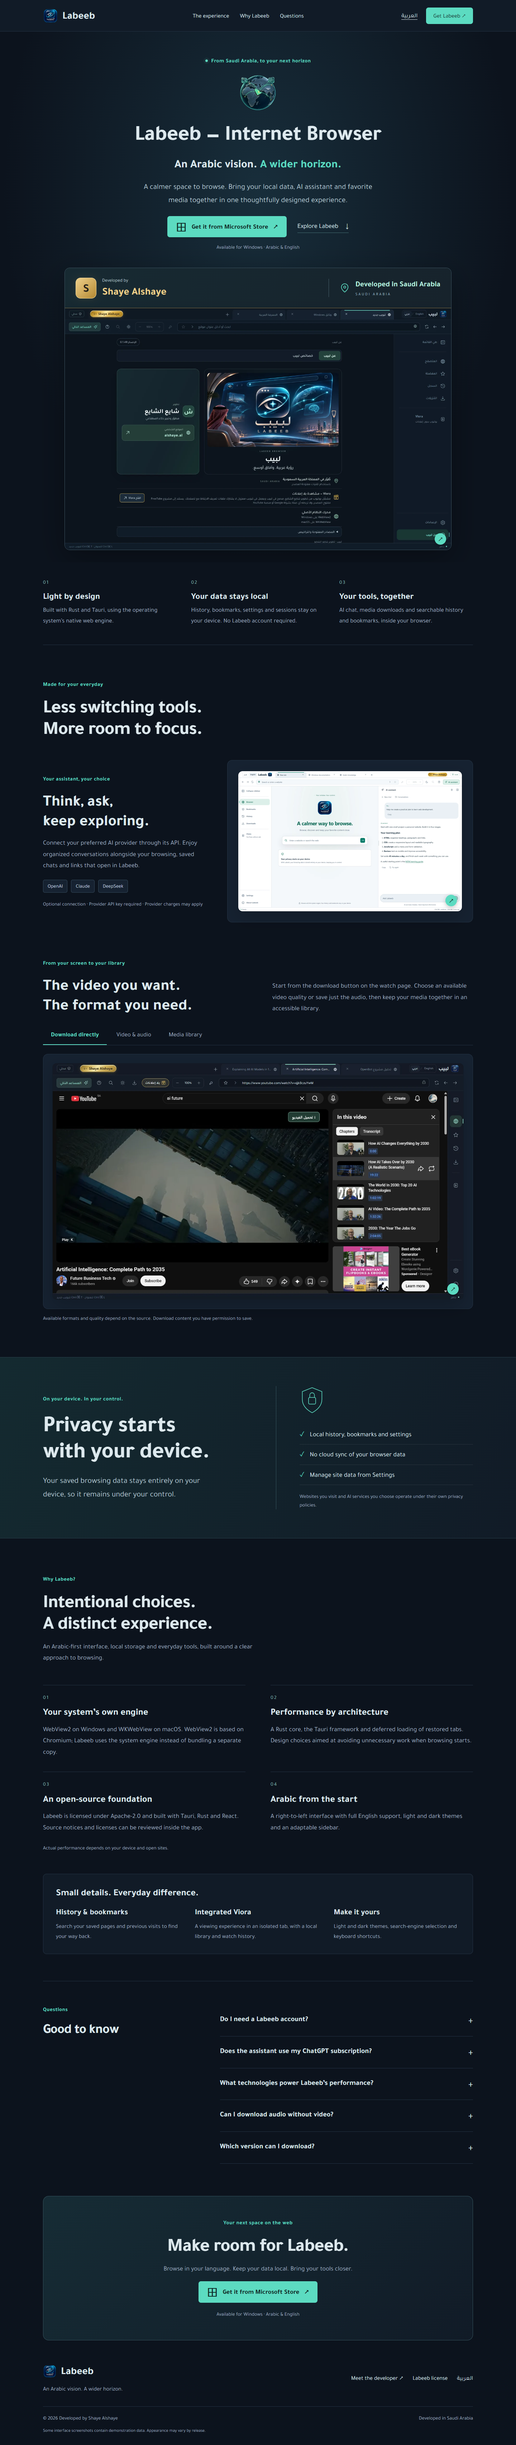
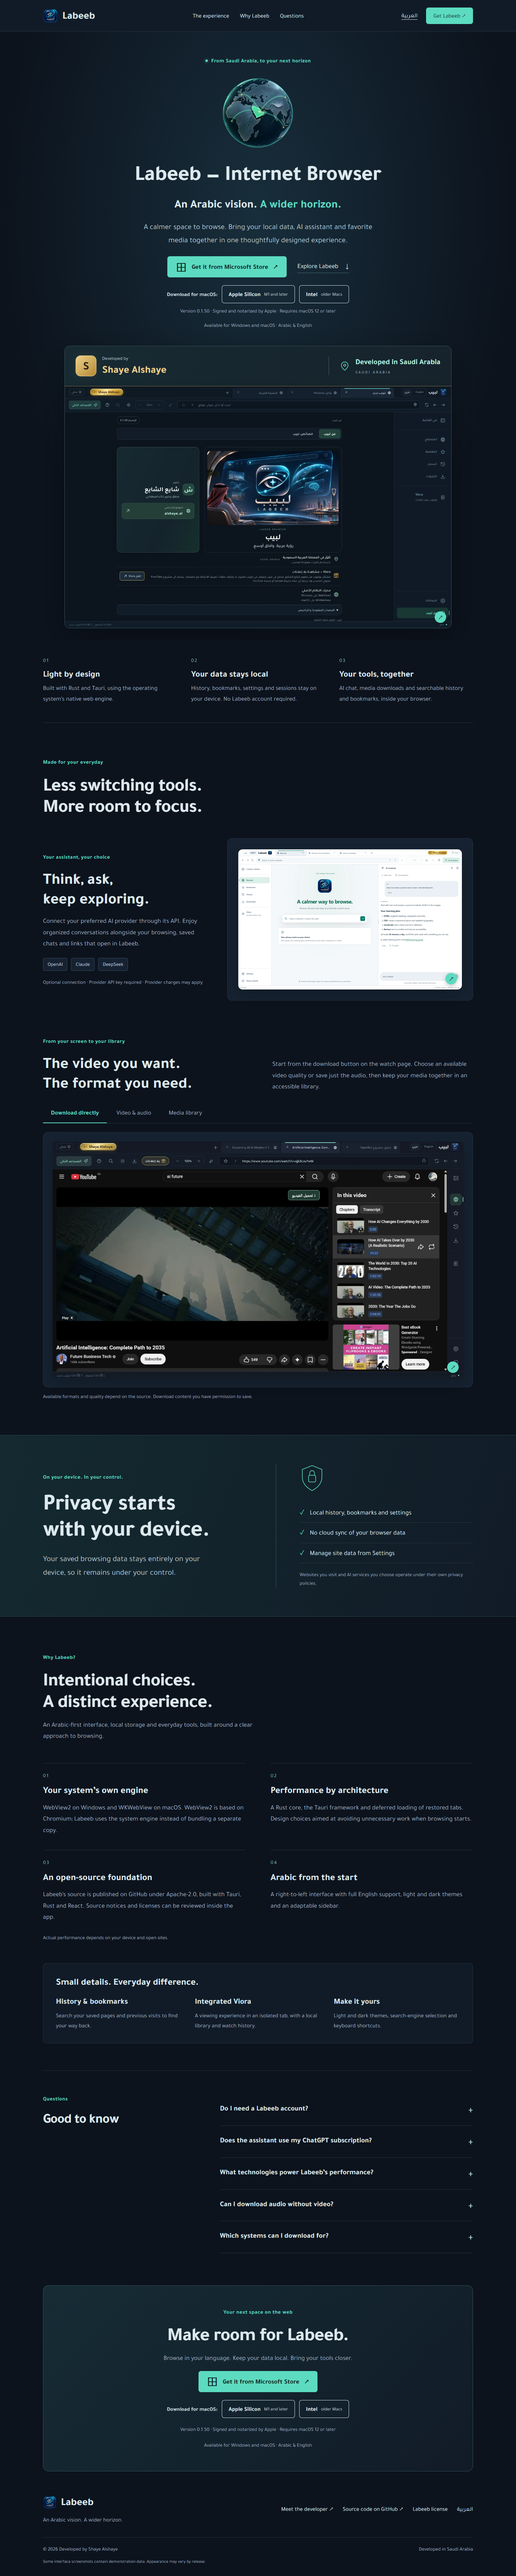
Add macOS downloads and GitHub link to the website [skip ci]
Serve the signed, notarized 0.1.50 DMGs from /downloads/ on Cloudflare
Pages (git-ignored, copied from CI artifacts at build time), link the
public repository, and update availability text and FAQ for macOS.

diff --git a/labeeb-wbsite/style.css b/labeeb-wbsite/style.css
@@ -60,3 +60,11 @@ a:focus-visible,button:focus-visible,summary:focus-visible{outline-color:var(--g
  .origin-identity small{font-size:10px;letter-spacing:2px}
  .origin-identity svg{width:24px;height:27px}
 }
+
+.mac-downloads{display:flex;align-items:center;justify-content:center;flex-wrap:wrap;gap:12px;margin-top:22px}
+.mac-label{font-weight:700;font-size:15px;opacity:.85}
+.button.secondary{background:transparent;color:inherit;border:1px solid currentColor;font-size:16px;padding:10px 18px;gap:10px}
+.button.secondary:hover{background:rgba(127,127,127,.14)}
+.button.secondary small{font-weight:400;opacity:.75;font-size:13px}
+.mac-note{text-align:center;margin-top:10px}
+@media (max-width:600px){.mac-downloads{flex-direction:column;align-items:stretch}.mac-label{text-align:center}}

diff --git a/labeeb-wbsite/DEPLOYMENT.md b/labeeb-wbsite/DEPLOYMENT.md
@@ -6,9 +6,14 @@
 - Project: labeeb
 - Production branch: main
 - Public URL: https://labeeb-4ry.pages.dev
-- Deployment: fc1def47-fcfc-435a-be99-21d12502ef7a
-- Requested custom domain: labeeb.alshaye.ai
-- Custom domain registered on Pages; pending DNS (CNAME record not set).
+- Deployment: 1814c220 (2026-11-20, adds macOS 0.1.50 downloads and GitHub link)
+- Custom domain: https://labeeb.alshaye.ai (live)
+
+macOS installers are served from `/downloads/`. Copy the signed, notarized DMGs
+from the "Signed macOS release" workflow artifacts into `labeeb-wbsite/downloads/`
+before `node build.mjs` (the build fails if they are missing). They are git-ignored
+and must stay under Cloudflare Pages' 25 MiB per-file limit. Update `MAC_VERSION`
+in `build.mjs` for a new release.
 
 Required DNS record in alshaye.ai:
 
